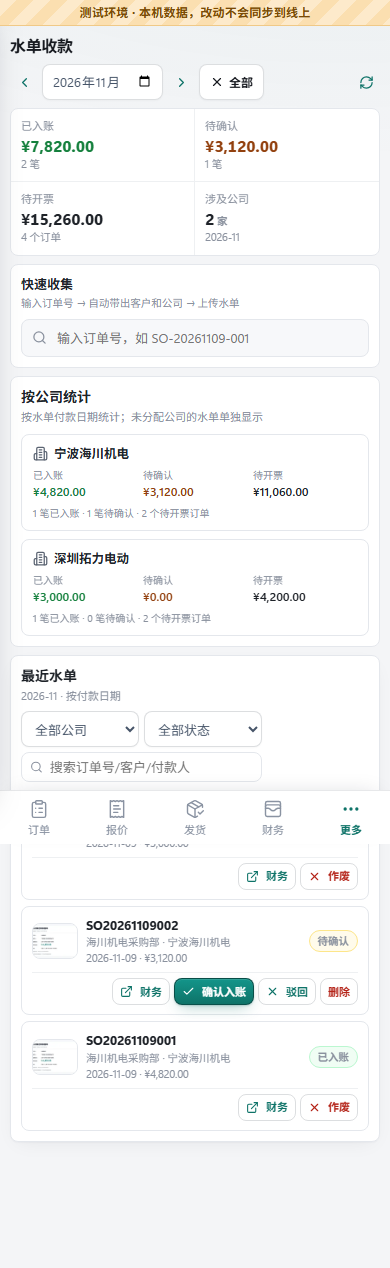
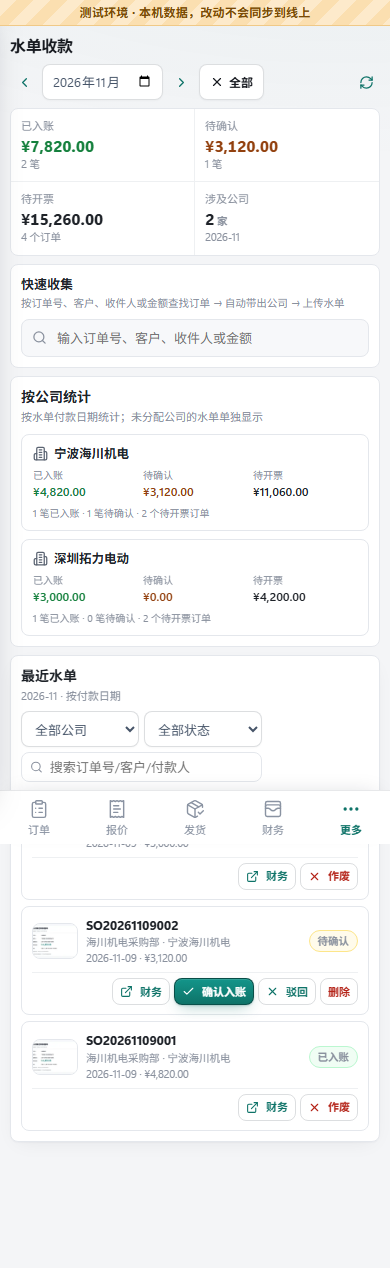
feat(finance): 快速收集支持客户收件人金额查找

Changed region(s): [[0.0615, 0.2153, 0.7385, 0.2768], [0.7692, 0.2153, 0.8923, 0.2461]]

diff --git a/src/server/db/finance-repository.ts b/src/server/db/finance-repository.ts
@@ -102,6 +102,14 @@ function lastInsertId(result: { lastInsertRowid: number | bigint }): number {
   return Number(result.lastInsertRowid);
 }
 
+/** “4,820”“¥4820”“4820.00”都能当作金额查询；纯数字订单号也会同时作为金额尝试，不会影响订单号命中。 */
+function parseLookupAmountCents(value: string): number | null {
+  const normalized = value.replace(/[¥￥,\s]/g, '');
+  if (!/^\d+(\.\d{1,2})?$/.test(normalized)) return null;
+  const cents = Math.round(Number(normalized) * 100);
+  return Number.isSafeInteger(cents) && cents >= 0 ? cents : null;
+}
+
 function mapFinance(row: SqlRow | undefined): OrderFinanceSummary | undefined {
   if (!row) return undefined;
   return {
@@ -563,14 +571,23 @@ export class FinanceRepository {
     return rows;
   }
 
-  /** 水单页订单号输入：模糊匹配，完全匹配排在最前。 */
+  /** 水单页快速收集：订单号、客户、收件人模糊匹配，金额按订单金额或未收金额精确匹配。 */
   lookupOrders(query: string, limit = 10): FinanceOrderLookupRow[] {
     const trimmed = query.trim();
     if (!trimmed) return [];
+    const like = `%${trimmed}%`;
+    const conditions = ['o.order_no LIKE ?', 'o.customer_name LIKE ?', 'o.recipient_name LIKE ?'];
+    const values: Array<string | number> = [like, like, like];
+    const amountCents = parseLookupAmountCents(trimmed);
+    if (amountCents != null) {
+      conditions.push('(o.amount_cents = ? OR COALESCE(f.outstanding_cents, o.amount_cents) = ?)');
+      values.push(amountCents, amountCents);
+    }
     const rows = this.database.prepare(`
-      SELECT o.id AS order_id, o.order_no, o.customer_name, o.ordered_at AS order_date,
+      SELECT o.id AS order_id, o.order_no, o.customer_name, o.recipient_name, o.ordered_at AS order_date,
         COALESCE(o.settlement_type, 'corporate') AS settlement_type,
         o.company_id, COALESCE(c.short_name, '') AS company_name,
+        o.amount_cents,
         COALESCE(f.receivable_cents, o.amount_cents) AS receivable_cents,
         COALESCE(f.received_cents, 0) AS received_cents,
         COALESCE(f.outstanding_cents, o.amount_cents) AS outstanding_cents,
@@ -580,18 +597,27 @@ export class FinanceRepository {
       FROM orders o
       LEFT JOIN order_finance f ON f.order_id = o.id
       LEFT JOIN companies c ON c.id = o.company_id
-      WHERE o.order_no LIKE ?
-      ORDER BY CASE WHEN o.order_no = ? THEN 0 ELSE 1 END, o.ordered_at DESC, o.id DESC
+      WHERE ${conditions.join(' OR ')}
+      ORDER BY
+        CASE
+          WHEN o.order_no = ? THEN 0
+          WHEN o.customer_name = ? THEN 1
+          WHEN o.recipient_name = ? THEN 2
+          ELSE 3
+        END,
+        o.ordered_at DESC, o.id DESC
       LIMIT ?
-    `).all(`%${trimmed}%`, trimmed, Math.max(1, Math.min(50, limit))) as SqlRow[];
+    `).all(...values, trimmed, trimmed, trimmed, Math.max(1, Math.min(50, limit))) as SqlRow[];
     return rows.map((row) => ({
       orderId: numberValue(row, 'order_id'),
       orderNo: stringValue(row, 'order_no'),
       customerName: stringValue(row, 'customer_name'),
+      recipientName: stringValue(row, 'recipient_name'),
       orderDate: stringValue(row, 'order_date'),
       settlementType: stringValue(row, 'settlement_type', 'corporate'),
       companyId: row.company_id == null ? null : numberValue(row, 'company_id'),
       companyName: stringValue(row, 'company_name'),
+      amountCents: numberValue(row, 'amount_cents'),
       receivableCents: numberValue(row, 'receivable_cents'),
       receivedCents: numberValue(row, 'received_cents'),
       outstandingCents: numberValue(row, 'outstanding_cents'),

diff --git a/src/client/pages/WaterSlipPage.tsx b/src/client/pages/WaterSlipPage.tsx
@@ -280,16 +280,20 @@ export default function WaterSlipPage({ companies, onNotify, onOpenOrder, onOpen
 
     <section className={`water-slip-collect${dragging ? ' is-dragging' : ''}`} {...dropHandlers}>
       <div className="water-slip-collect-head">
-        <div><strong>快速收集</strong><span>输入订单号 → 自动带出客户和公司 → 上传水单</span></div>
+        <div><strong>快速收集</strong><span>按订单号、客户、收件人或金额查找订单 → 自动带出公司 → 上传水单</span></div>
         {selectedOrder && <button className="button button-ghost" type="button" onClick={clearOrder}><X size={14} />换订单</button>}
       </div>
       <div className="water-slip-order-search">
         <Search size={15} />
         <input
           value={lookupQuery}
-          onChange={(event) => { setLookupQuery(event.target.value); if (selectedOrder && event.target.value !== selectedOrder.orderNo) setSelectedOrder(undefined); }}
-          placeholder="输入订单号，如 SO-20261109-001"
-          aria-label="订单号"
+          onChange={(event) => {
+            setLookupQuery(event.target.value);
+            setLookupRows([]);
+            if (selectedOrder && event.target.value !== selectedOrder.orderNo) setSelectedOrder(undefined);
+          }}
+          placeholder="输入订单号、客户、收件人或金额"
+          aria-label="查找订单"
         />
         {lookupLoading && <span className="water-slip-search-hint">查询中…</span>}
         {!lookupLoading && lookupQuery.trim().length >= 2 && !selectedOrder && lookupRows.length === 0 && <span className="water-slip-search-hint">未找到订单</span>}
@@ -297,13 +301,13 @@ export default function WaterSlipPage({ companies, onNotify, onOpenOrder, onOpen
       {!selectedOrder && lookupRows.length > 0 && <div className="water-slip-candidates">
         {lookupRows.map((row) => <button type="button" key={row.orderId} className="water-slip-candidate" onClick={() => selectOrder(row)}>
           <strong>{row.orderNo}</strong>
-          <span>{row.customerName || '未填客户'} · {row.companyName || '未分配公司'}</span>
-          <small>应收 {money(row.receivableCents)} · 未收 {money(row.outstandingCents)}</small>
+          <span>{row.customerName || '未填客户'}{row.recipientName ? ` · 收件人 ${row.recipientName}` : ''} · {row.companyName || '未分配公司'}</span>
+          <small>金额 {money(row.amountCents)} · 未收 {money(row.outstandingCents)}</small>
         </button>)}
       </div>}
       {selectedOrder && <div className="water-slip-selected-order">
         <div className="water-slip-order-main">
-          <div><strong>{selectedOrder.orderNo}</strong><span>{selectedOrder.customerName || '未填客户'}</span></div>
+          <div><strong>{selectedOrder.orderNo}</strong><span>{selectedOrder.customerName || '未填客户'}{selectedOrder.recipientName ? ` · 收件人 ${selectedOrder.recipientName}` : ''}</span></div>
           <span className={selectedOrder.companyName ? 'badge badge-neutral' : 'badge badge-warning'}><Building2 size={12} />{selectedOrder.companyName || '未分配公司'}</span>
         </div>
         <div className="water-slip-order-metrics">

diff --git a/tests/server/companies.test.ts b/tests/server/companies.test.ts
@@ -160,10 +160,24 @@ describe('公司档案与水单收款', () => {
     const order = await createOrder(app, company.id);
     const orderId = Number(order.json().data.id);
     const orderNo = String(order.json().data.order_no);
+    const customerId = Number(database.prepare(
+      `INSERT INTO customers (name, created_at, updated_at)
+       VALUES ('宁波海川采购部', '2026-08-20', '2026-08-20')`,
+    ).run().lastInsertRowid);
+    database.prepare('UPDATE orders SET customer_id = ?, customer_name = ? WHERE id = ?').run(customerId, '宁波海川采购部', orderId);
 
     const lookup = await authInject(app, { method: 'GET', url: `/api/finance/orders/lookup?orderNo=${encodeURIComponent(orderNo)}` });
     expect(lookup.statusCode).toBe(200);
-    expect(lookup.json().data.items[0]).toMatchObject({ orderId, orderNo, companyId: company.id, companyName: '宁波公司' });
+    expect(lookup.json().data.items[0]).toMatchObject({ orderId, orderNo, customerName: '宁波海川采购部', recipientName: '张三', amountCents: 10000, companyId: company.id, companyName: '宁波公司' });
+
+    const byCustomer = await authInject(app, { method: 'GET', url: `/api/finance/orders/lookup?orderNo=${encodeURIComponent('海川采购')}` });
+    expect(byCustomer.json().data.items).toEqual(expect.arrayContaining([expect.objectContaining({ orderId, orderNo })]));
+    const byRecipient = await authInject(app, { method: 'GET', url: `/api/finance/orders/lookup?orderNo=${encodeURIComponent('张三')}` });
+    expect(byRecipient.json().data.items).toEqual(expect.arrayContaining([expect.objectContaining({ orderId, orderNo })]));
+    const byAmount = await authInject(app, { method: 'GET', url: `/api/finance/orders/lookup?orderNo=${encodeURIComponent('100.00')}` });
+    expect(byAmount.json().data.items).toEqual(expect.arrayContaining([expect.objectContaining({ orderId, orderNo, amountCents: 10000 })]));
+    const byCurrencyAmount = await authInject(app, { method: 'GET', url: `/api/finance/orders/lookup?orderNo=${encodeURIComponent('¥100.00')}` });
+    expect(byCurrencyAmount.json().data.items).toEqual(expect.arrayContaining([expect.objectContaining({ orderId, orderNo, amountCents: 10000 })]));
 
     const proof = await uploadProof(app, orderId, 4000, '2026-08-23');
     const pendingStats = await authInject(app, { method: 'GET', url: '/api/finance/companies/stats?month=2026-08' });

diff --git a/tests/e2e/water-slips.spec.ts b/tests/e2e/water-slips.spec.ts
@@ -52,10 +52,18 @@ test('水单收款：订单号定位、上传、确认入账并按公司统计',
     await page.locator('.sidebar-nav').getByRole('button', { name: '水单', exact: true }).click();
     await expect(page.getByText('水单收款', { exact: true })).toBeVisible();
 
-    const lookup = page.getByLabel('订单号');
+    const lookup = page.getByLabel('查找订单');
     await lookup.fill(orderNo);
     await expect(page.locator('.water-slip-selected-order')).toContainText(orderNo);
     await expect(page.locator('.water-slip-selected-order')).toContainText(company.shortName);
+
+    // 客户、收件人、金额都能用来查找订单。
+    await lookup.fill('水单收件人');
+    await page.locator('.water-slip-candidate', { hasText: orderNo }).click();
+    await expect(page.locator('.water-slip-selected-order')).toContainText(orderNo);
+    await lookup.fill('100');
+    await page.locator('.water-slip-candidate', { hasText: orderNo }).click();
+    await expect(page.locator('.water-slip-selected-order')).toContainText(orderNo);
 
     await page.locator('.water-slip-upload input[type=file]').setInputFiles({ name: `水单-${stamp}.png`, mimeType: 'image/png', buffer: PNG_1X1 });
     await page.locator('.water-slip-form label', { hasText: '付款金额' }).locator('input').fill('40');

diff --git a/src/shared/finance.ts b/src/shared/finance.ts
@@ -201,10 +201,13 @@ export interface FinanceOrderLookupRow {
   orderId: number;
   orderNo: string;
   customerName: string;
+  recipientName: string;
   orderDate: string;
   settlementType: string;
   companyId: number | null;
   companyName: string;
+  /** 订单金额（不是应收快照），用于按金额查找 */
+  amountCents: number;
   receivableCents: number;
   receivedCents: number;
   outstandingCents: number;

diff --git a/水单收款-改造需求.md b/水单收款-改造需求.md
@@ -1,6 +1,6 @@
 # 水单收款 — 改造需求
 
-> 状态：**v1.0 已上线（2026-11-09，commit b59ebd8）**  
+> 状态：**v1.1 快速收集查找增强（本地待验收）；v1.0 已于 2026-11-09 上线，commit b59ebd8**  
 > 关联模块：订单、财务、发票、文件存储  
 > 已确认的决定：公司档案放在财务模块维护；发票只登记信息；一张水单对应一个订单；独立页面 + 订单详情展示。
 
@@ -74,7 +74,7 @@
 
 **快速收集区**：
 
-1. **订单号输入**：支持手动输入、粘贴、模糊搜索候选项；选中后显示订单卡。
+1. **订单查找**：支持手动输入、粘贴，按订单号、客户、收件人、金额模糊查找；金额同时匹配订单金额和未收金额；选中后显示订单卡。
 2. **订单卡**：订单号、客户、收款/开票公司、应收、已收、未收、结算方式、发票状态。
 3. **水单文件**：点选、拖拽或 Ctrl+V 粘贴；显示缩略图；一期支持 PNG/JPEG/WebP，PDF 作为 1.5 期可选。
 4. **收款信息**：付款日期（默认今天）、付款金额（必填）、付款方式、付款人（可选）、交易流水号（可选）、备注。
@@ -334,6 +334,13 @@ CREATE INDEX idx_orders_company ON orders(company_id, ordered_at DESC, id DESC);
 - `npm test`：80 个文件、634 个测试通过。
 - 全量 e2e：149 个用例通过（含水单收款、公司档案、手机端无横向溢出）。
 - 桌面 1440、手机 390、深色模式人工检查通过。
+
+**v1.1 快速收集查找增强（2026-11-09，本地待验收）**
+
+- 快速收集输入框从“只按订单号”扩展为按订单号、客户、收件人、金额查找。
+- 金额支持 `4820`、`4,820`、`¥4820`、`4820.00` 等写法，同时匹配订单金额和未收金额。
+- 候选订单展示客户、收件人、公司、订单金额和未收金额。
+- 已验证：客户名、收件人、金额均能命中对应订单；`typecheck`、634 个单测/服务端测试、水单 e2e 3 个用例通过。
 
 **上线记录（2026-11-09）**
 
